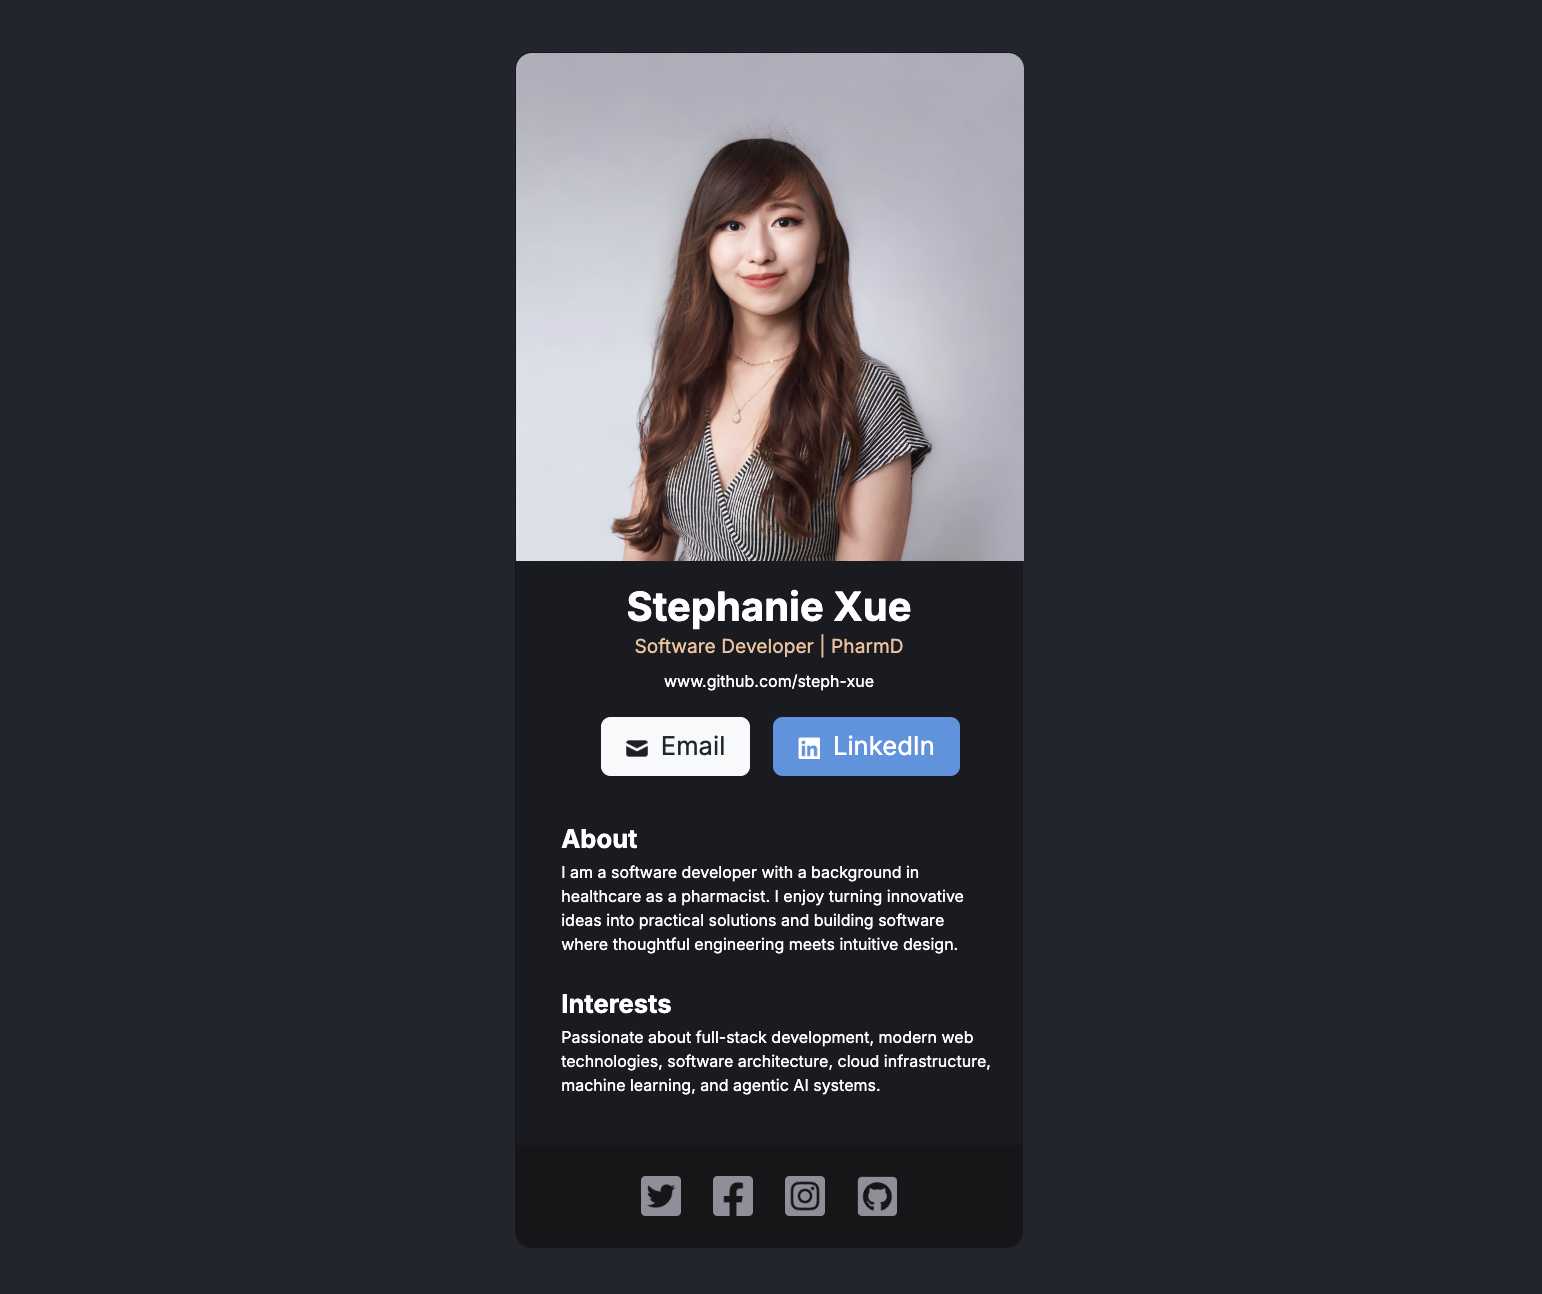
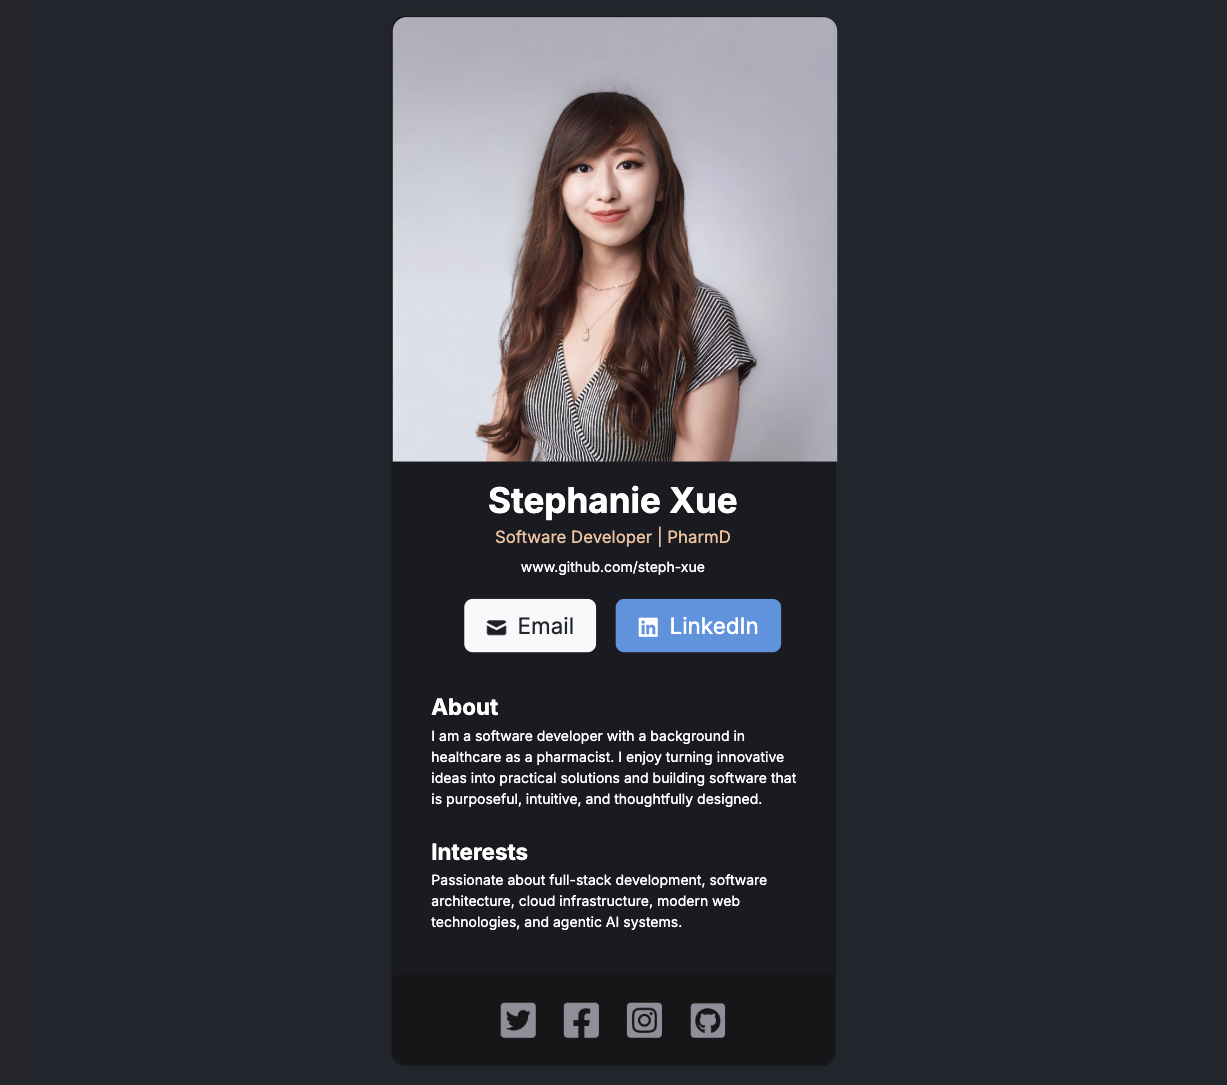
update info

Changed region(s): [[0.3097, 0.0, 0.6813, 0.6083], [0.3407, 0.6387, 0.6504, 0.8516], [0.4026, 0.9124, 0.5884, 0.9733]]

diff --git a/src/components/About.jsx b/src/components/About.jsx
@@ -5,7 +5,7 @@ function About() {
         <div className="about-page">
             <h1>About</h1>
             <p>
-                I am a software developer with a background in healthcare as a pharmacist. I enjoy turning innovative ideas into practical solutions and building software where thoughtful engineering meets intuitive design.
+                I am a software developer with a background in healthcare as a pharmacist. I enjoy turning innovative ideas into practical solutions and building software that is purposeful, intuitive, and thoughtfully designed.
             </p>
         </div>
     );

diff --git a/src/components/Interests.jsx b/src/components/Interests.jsx
@@ -5,7 +5,7 @@ function Interests() {
         <div className="interests-page">
             <h1>Interests</h1>
             <p>
-                Passionate about full-stack development, modern web technologies, software architecture, cloud infrastructure, machine learning, and agentic AI systems.
+                Passionate about full-stack development, software architecture, cloud infrastructure, modern web technologies, and agentic AI systems.
             </p>
         </div>
     );
